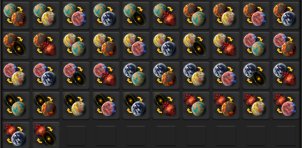
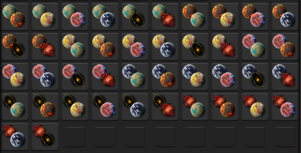
Add files via upload

diff --git a/README.md b/README.md
@@ -1,21 +1,16 @@
 # Space Connection Signals
 
-![signals](thumbnail.png)
-
 Adds individual signal icons for space routes between planets and space
 locations in Space Age.
 
-These signals can be used in: 
-- Circuit networks
-- Display panels
-- Logistic labelling
-- Blueprints
-- Any system that supports virtual signals
+These signals can be used in: - Circuit networks - Display panels -
+Logistic labelling - Blueprints - Any system that supports virtual
+signals
 
 Each signal visually represents a route from one body to another using
 layered planet icons over the Space Age route background.
 
----
+------------------------------------------------------------------------
 
 ## Why This Mod Exists
 
@@ -32,9 +27,9 @@ allows you to effectively merge "heading from" and "heading to" into a
 single, clean signal icon.
 
 It's admittedly a bit niche, but it looks great on platform
-dashboards, and I find it useful for logitistics and labelling.
+dashboards.
 
----
+------------------------------------------------------------------------
 
 ## Features
 
@@ -45,26 +40,30 @@ dashboards, and I find it useful for logitistics and labelling.
 -   No runtime scripts
 -   No UPS impact
 
----
+------------------------------------------------------------------------
 
 ## Startup Settings
 
 ### Only generate direct starmap connections
 
-- Generates signals only for planet/location pairs that have a direct
+Generates signals only for planet/location pairs that have a direct
 `space-connection` defined on the starmap.
 
-- Useful for large mod packs that introduce many indirect bodies.
+Useful for large mod packs that introduce many indirect bodies.
 
 ### Generate one signal per pair (galaxy order)
 
-- Generates only one directional signal per pair of bodies.
+Generates only one directional signal per pair of bodies.
 
-- This reduces total signal count by roughly half.
+Instead of: A → B \ B → A
+
+Only: Earlier-in-galaxy-order → Later-in-galaxy-order
+
+This reduces total signal count by roughly half.
 
 Both settings can be enabled independently or together.
 
----
+------------------------------------------------------------------------
 
 ## Compatibility
 
@@ -73,11 +72,14 @@ Both settings can be enabled independently or together.
 -   Compatible with modded planets and space-locations
 -   Automatically adapts to added `space-connection` prototypes
 
----
+------------------------------------------------------------------------
 
-#  Current Version
+## Version
 
-[v1.0.0 Initial Stable Release](https://github.com/lyttelgeek/SpaceConnectionSignals/releases/tag/1.0.0-Initial_Release)
+Current version: **1.0.0**
 
----
+------------------------------------------------------------------------
 
+## Author
+
+Nzungu

diff --git a/CHANGELOG.md b/CHANGELOG.md
@@ -1,27 +1,27 @@
 # Changelog
 
-All notable changes to this project will be documented in this file.
 
-This project follows semantic versioning (MAJOR.MINOR.PATCH).
+## 1.0.1 - Icon Tweaks
 
-------------------------------------------------------------------------
+### Changes
+- Removed vanilla arrow layer "planet-route.png" from icons
+- Properly implemented full modded planet icon support
+- Slightly reduced icon scaling to fit display panels better
 
-## [1.0.0] - Initial Stable Release
+---
+
+## 1.0.0 - Initial Stable Release
 
 ### Added
-
--   Initial stable release
--   Generates virtual signals for all space routes between planets and
-    space locations
--   Composite layered route icons using Space Age visuals
--   Galaxy-order sorting of signals
--   Startup setting: generate only direct starmap connections
--   Startup setting: generate one signal per pair (galaxy order
-    priority)
--   Compatibility with modded planets and space-locations
+- Initial stable release
+- Generates virtual signals for all space routes between planets and space locations
+- Composite layered route icons using Space Age visuals
+- Galaxy-order sorting of signals
+- Startup setting: generate only direct starmap connections
+- Startup setting: generate one signal per pair (galaxy order priority)
+- Compatibility with modded planets and space-locations
 
 ### Technical
-
 -   Bulk `data:extend()` implementation for efficient prototype
     registration
 -   Direct `space-connection` adjacency detection
